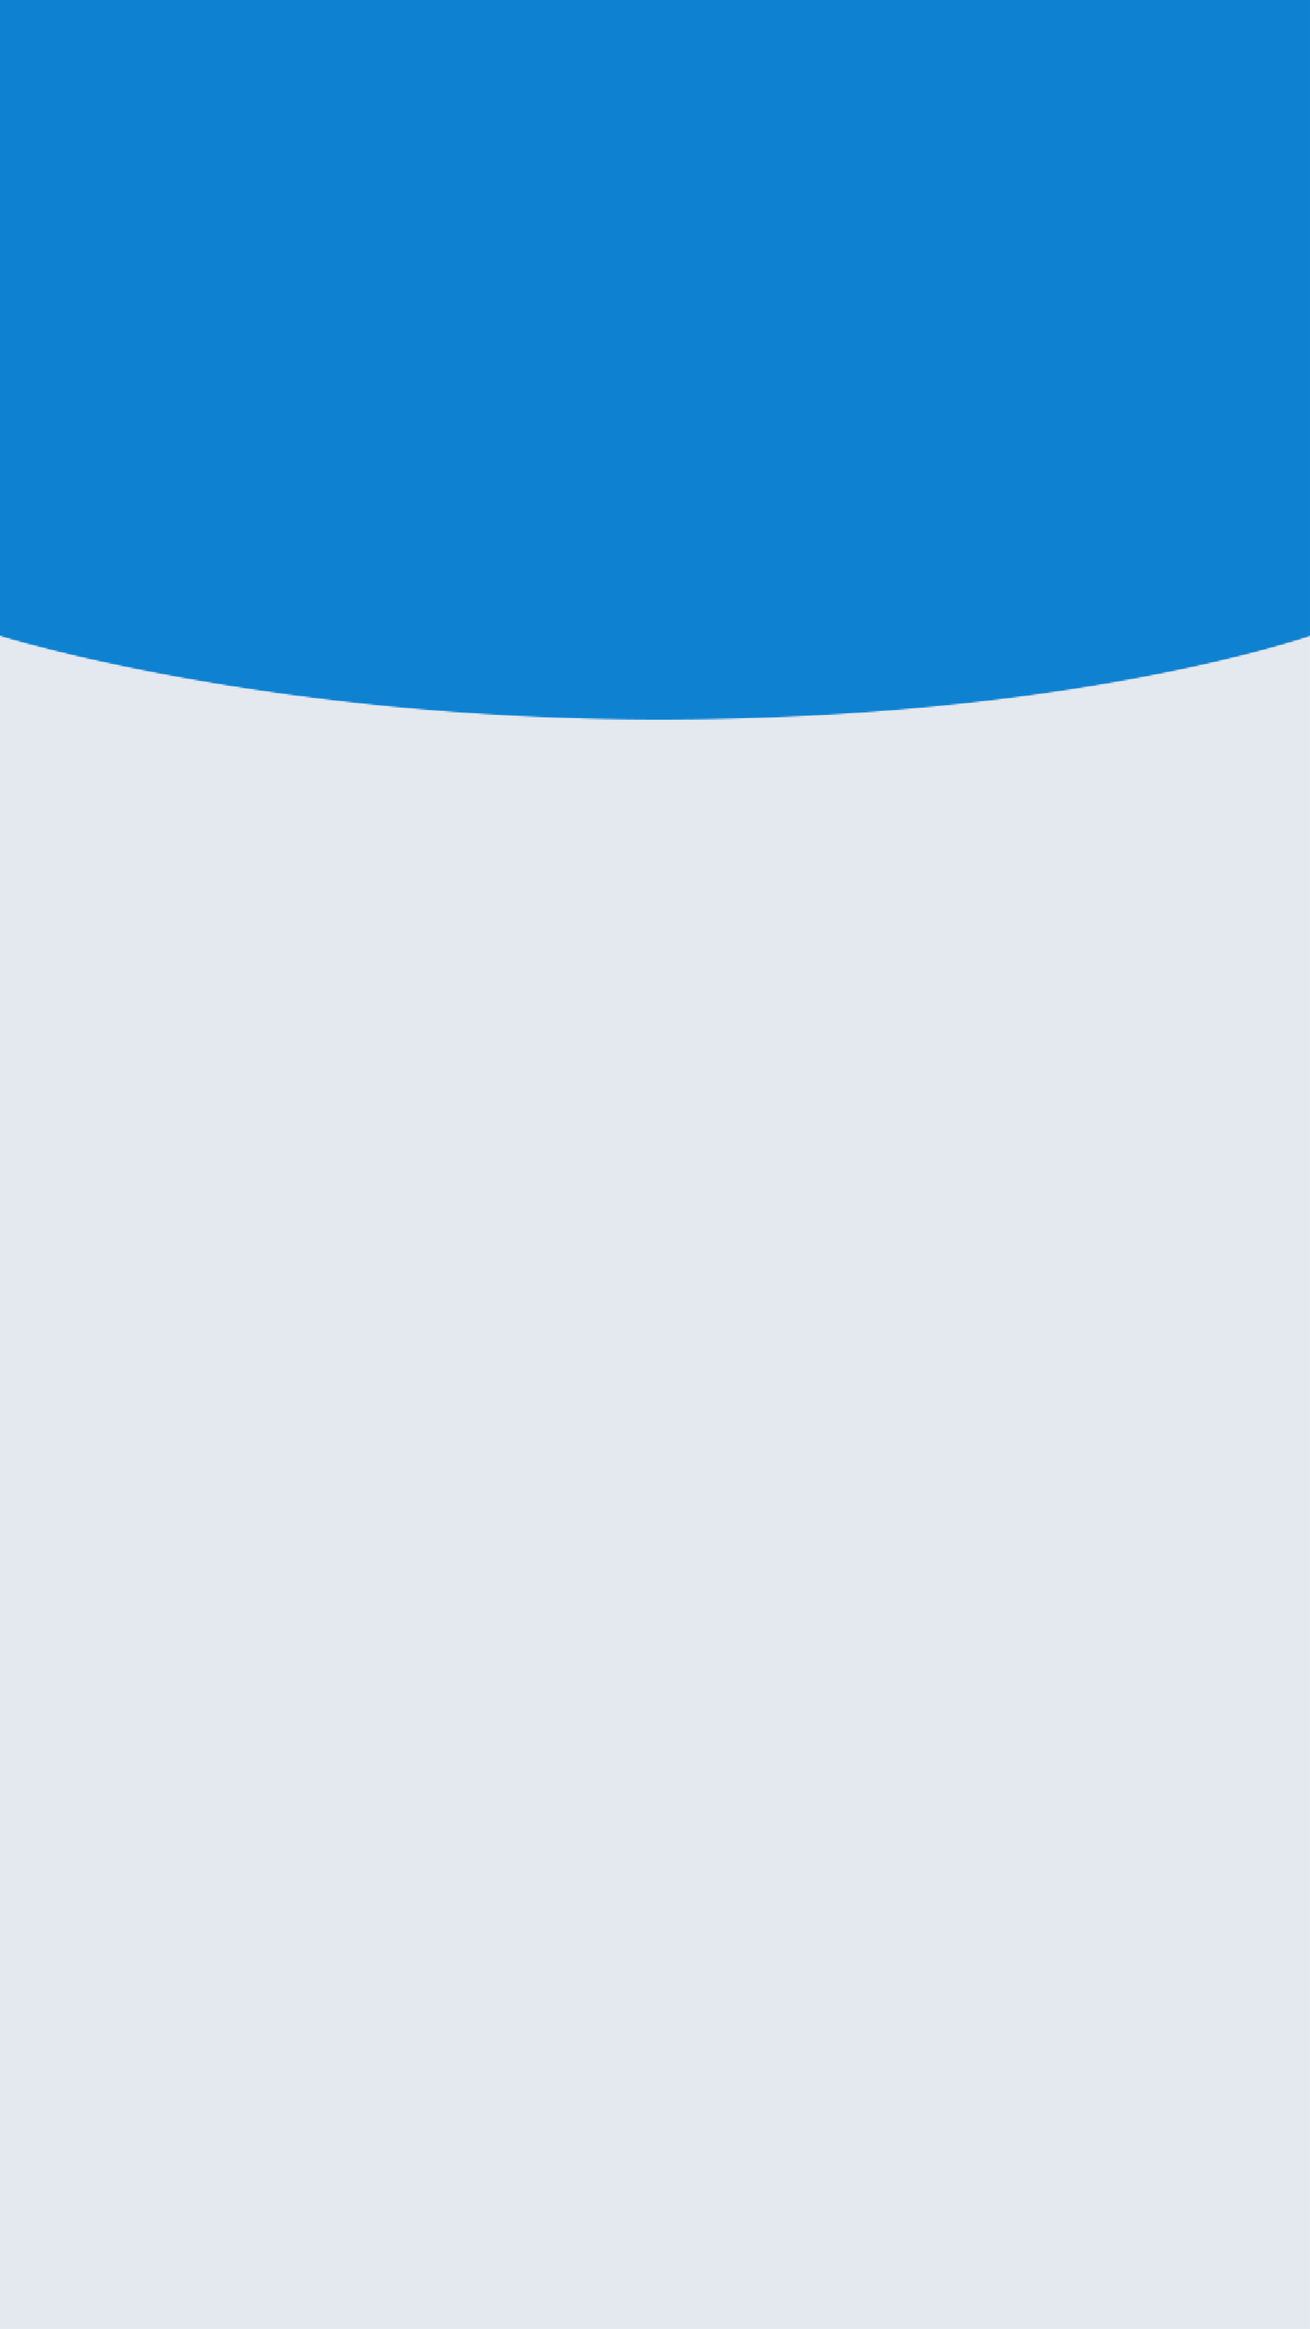
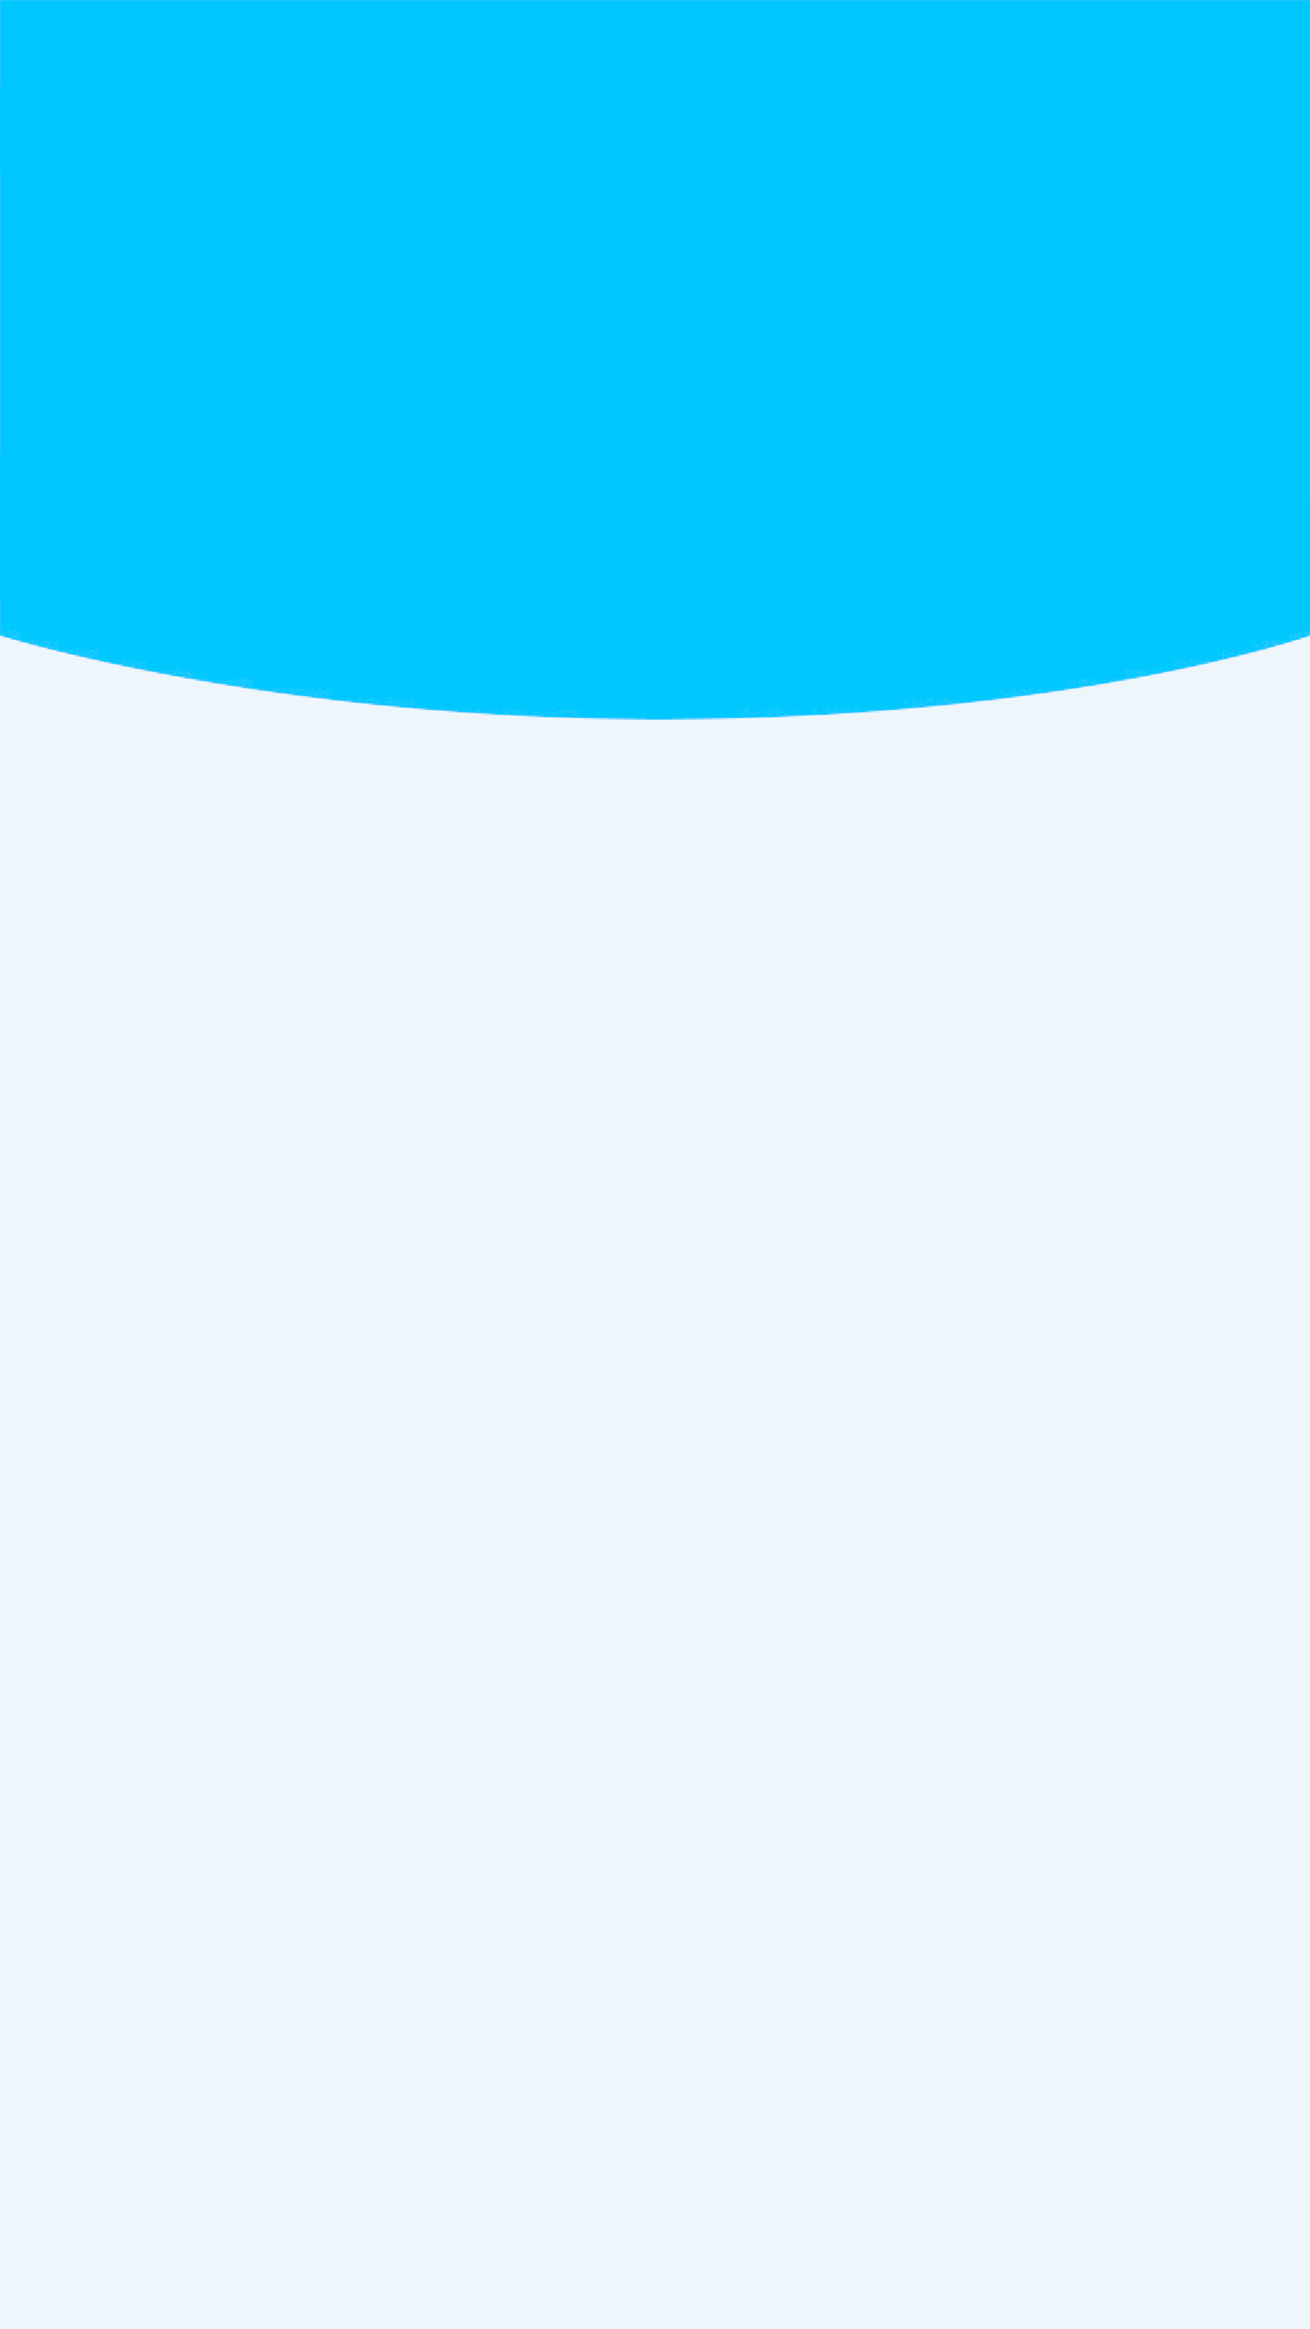
Linked everything together.

Changed region(s): [[0.0, 0.0, 1.0, 0.3125]]

diff --git a/lib/homepage.dart b/lib/homepage.dart
@@ -5,13 +5,21 @@ import 'package:fluttertoast/fluttertoast.dart';
 import 'package:note_scout/forgotpassword.dart';
 import 'package:note_scout/sidemenu.dart';
 import 'package:note_scout/searchnotes.dart';
-
-import 'signuppage.dart';
+import 'package:note_scout/view.dart';
+import 'package:note_scout/edit.dart';
+import 'package:note_scout/upload.dart';
+import 'package:note_scout/mynotes.dart';
+import 'package:note_scout/signuppage.dart';
 
 class MyApp extends StatelessWidget {
   @override
   Widget build(BuildContext context) {
     return new MaterialApp(
+      title: "Note Scout",
+      theme: ThemeData(
+          brightness: Brightness.light,
+          primaryColor: Color.fromARGB(0xFF, 0x00, 0xc8, 0xff),
+      ),
       debugShowCheckedModeBanner: false,
       routes: <String, WidgetBuilder>{
         '/signup': (BuildContext context) => new SignupPage()
@@ -115,34 +123,40 @@ class _MyHomePageState extends State<MyHomePage> {
                       ),
                     ),
                     SizedBox(height: 40.0),
-                    Container(
-                      height: 40.0,
-                      child: Material(
-                        borderRadius: BorderRadius.circular(20.0),
-                        shadowColor: Colors.blueAccent,
-                        color: Colors.blueAccent,
-                        elevation: 7.0,
-                        child: GestureDetector(
+                    GestureDetector(
                           onTap: () {
                             Navigator.pushReplacement(
                                 context,
                                 MaterialPageRoute<void>(
                                     builder: (context) => GridLayout()));
                           },
-                          child: Center(
-                            child: Text(
-                              'LOGIN',
-                              style: TextStyle(
-                                  color: Colors.white,
-                                  fontWeight: FontWeight.bold,
-                                  fontFamily: 'Montserrat'),
+                          child: Container(
+                            height: 40.0,
+                            child: Material(
+                                borderRadius: BorderRadius.circular(20.0),
+                                shadowColor: Colors.blueAccent,
+                                color: Colors.blueAccent,
+                                elevation: 7.0,
+                                child: Center(
+                                    child: Text('LOGIN',
+                                      style: TextStyle(
+                                      color: Colors.white,
+                                      fontWeight: FontWeight.bold,
+                                      fontFamily: 'Montserrat'),
                             ),
                           ),
                         ),
                       ),
                     ),
                     SizedBox(height: 20.0),
-                    Container(
+                    GestureDetector(
+                          onTap: () {
+                            Navigator.pushReplacement(
+                                context,
+                                MaterialPageRoute<void>(
+                                    builder: (context) => GridLayout()));
+                          },
+                          child: Container(
                       height: 40.0,
                       color: Colors.transparent,
                       child: Container(
@@ -153,14 +167,7 @@ class _MyHomePageState extends State<MyHomePage> {
                                 width: 1.0),
                             color: Colors.transparent,
                             borderRadius: BorderRadius.circular(20.0)),
-                        child: GestureDetector(
-                          onTap: () {
-                            Navigator.pushReplacement(
-                                context,
-                                MaterialPageRoute<void>(
-                                    builder: (context) => GridLayout()));
-                          },
-                          child: Row(
+                        child: Row(
                               mainAxisAlignment: MainAxisAlignment.center,
                               children: <Widget>[
                                 SizedBox(width: 10.0),
@@ -224,7 +231,7 @@ class GridLayout extends StatelessWidget {
   Widget build(BuildContext context) {
     // creating empty app with background
     return Scaffold(
-        appBar: AppBar(backgroundColor: Colors.blue,),
+        appBar: AppBar(title: Text("Note Scout"),),
         drawer: Drawer(child: SideMenu()),
         body: Container(
           decoration: BoxDecoration(
@@ -232,7 +239,7 @@ class GridLayout extends StatelessWidget {
                 image: AssetImage("assets/bg.png"), fit: BoxFit.cover),
           ),
           child: Container(
-            margin: const EdgeInsets.only(top: 79.0), //SHIFTING THE GRID UPWARDS!!!!!!
+            margin: const EdgeInsets.only(top: 16.0), //SHIFTING THE GRID UPWARDS!!!!!!
             child: GridView(
               physics: BouncingScrollPhysics(), // only for iOS
               gridDelegate:
@@ -250,11 +257,64 @@ class GridLayout extends StatelessWidget {
                         msg: title + " click",
                         toastLength: Toast.LENGTH_SHORT,
                         gravity: ToastGravity.CENTER,
-                        backgroundColor: Colors.blue,
-                        textColor: Colors.white,
+                        backgroundColor: Color.fromARGB(0xFF, 0x00, 0xc8, 0xff),
+                        textColor: Colors.black,
                         fontSize: 16.0);
-                    Navigator.of(context).push(
-                        MaterialPageRoute(builder: (context) => searchNotes()));
+
+                    // Change page
+                    switch(title) {
+                        case "Search Notes":
+                            Navigator.push(
+                                context,
+                                MaterialPageRoute(builder: (context) {
+                                    return searchNotes();
+                                }),
+                            );
+                            break;
+                        case "Create New Notes":
+                            Navigator.push(
+                                context,
+                                MaterialPageRoute(builder: (context) {
+                                    return ViewNotePage(mode: ViewNoteMode.Owned);
+                                }),
+                            );
+                            Navigator.push(
+                                context,
+                                MaterialPageRoute(builder: (context) {
+                                    return EditNotePage();
+                                }),
+                            );
+                            break;
+                        case "Upload":
+                            Navigator.push(
+                                context,
+                                MaterialPageRoute(builder: (context) {
+                                    return upload();
+                                }),
+                            );
+                            break;
+                        case "My Notes":
+                            Navigator.push(
+                                context,
+                                MaterialPageRoute(builder: (context) {
+                                    return MyNotesPage(mode: MyNotesMode.Owned);
+                                }),
+                            );
+                            break;
+                        case "Bookmarks":
+                            Navigator.push(
+                                context,
+                                MaterialPageRoute(builder: (context) {
+                                    return MyNotesPage(mode: MyNotesMode.Browsing);
+                                }),
+                            );
+                            break;
+                        case "Get Help":
+                            print("TODO");
+                            break;
+                        default:
+                            break;
+                    }
                   },
                 );
               }).toList(),
@@ -317,13 +377,7 @@ class GridLayout extends StatelessWidget {
 class myApp extends StatelessWidget {
   @override
   Widget build(BuildContext context) {
-    return MaterialApp(
-      title: 'Flutter Demo',
-      theme: ThemeData(
-        primarySwatch: Colors.blue,
-      ),
-      home: SideMenu(),
-    );
+    return SideMenu();
   }
 }
 

diff --git a/lib/sidemenu.dart b/lib/sidemenu.dart
@@ -1,5 +1,7 @@
 import 'package:flutter/material.dart';
 
+import 'package:note_scout/upload.dart';
+
 final Color backgroundColor = Color(0xFFFFFF);
 
 class SideMenu extends StatefulWidget {
@@ -15,10 +17,10 @@ class sideMenu extends State<SideMenu> {
   Widget build(BuildContext context) {
     return Scaffold(
       backgroundColor: backgroundColor,
-      body: Stack(
+      body: ListView(
         children: <Widget>[
-          menu(context),
           dashboard(context),
+          menu(context),
         ],
       ),
     );
@@ -28,40 +30,51 @@ class sideMenu extends State<SideMenu> {
    * grid view homepage layout
    */
   Widget menu(context) {
-    return Padding(
-      padding: const EdgeInsets.only(left: 36.0),
-      child: Align(
-        alignment: Alignment.centerLeft, //moving the sidemenu
-        child: Column(
-          mainAxisSize: MainAxisSize.min,
-          mainAxisAlignment: MainAxisAlignment.spaceAround,
-          crossAxisAlignment: CrossAxisAlignment.start,
-          children: <Widget>[
-            Text("My Account",
-                style: TextStyle(color: Colors.black, fontSize: 22.0)),
-            SizedBox(height: 10.0),
-            Text("",
-                style: TextStyle(color: Colors.black, fontSize: 22.0)),
-            SizedBox(height: 10.0),
-            Text("Upload",
-                style: TextStyle(color: Colors.black, fontSize: 22.0)),
-            SizedBox(height: 10.0),
-            Text("Get Help",
-                style: TextStyle(color: Colors.black, fontSize: 22.0)),
-            SizedBox(height: 10.0),
-            Text("Upgrade Account",
-                style: TextStyle(color: Colors.black, fontSize: 22.0)),
-            SizedBox(height: 10.0),
-            Text("Trash",
-                style: TextStyle(color: Colors.black, fontSize: 22.0)),
-            SizedBox(height: 10.0),
-            Text("Settings",
-                style: TextStyle(color: Colors.black, fontSize: 22.0)),
-            SizedBox(height: 10.0),
+    return Column(
+        children: <Widget>[
+            ListTile(
+                title: const Text("My Account", style: TextStyle(color: Colors.black, fontSize: 22.0)),
+                onTap: () {
+                    print("TODO");
+                }
+            ),
+            ListTile(
+                title: const Text("Upload", style: TextStyle(color: Colors.black, fontSize: 22.0)),
+                onTap: () {
+                    Navigator.push(
+                        context,
+                        MaterialPageRoute(builder: (context) {
+                            return upload();
+                        }),
+                    );
+                }
+            ),
+            ListTile(
+                title: const Text("Get Help", style: TextStyle(color: Colors.black, fontSize: 22.0)),
+                onTap: () {
+                    print("TODO");
+                }
+            ),
+            ListTile(
+                title: const Text("Upgrade Account", style: TextStyle(color: Colors.black, fontSize: 22.0)),
+                onTap: () {
+                    print("TODO");
+                }
+            ),
+            ListTile(
+                title: const Text("Trash", style: TextStyle(color: Colors.black, fontSize: 22.0)),
+                onTap: () {
+                    print("TODO");
+                }
+            ),
+            ListTile(
+                title: const Text("Settings", style: TextStyle(color: Colors.black, fontSize: 22.0)),
+                onTap: () {
+                    print("TODO");
+                }
+            ),
           ],
-        ),
-      ),
-    );
+        );
   }
 
   /**
@@ -69,25 +82,14 @@ class sideMenu extends State<SideMenu> {
    */
   Widget dashboard(context){
     return Material(
-      elevation: 8.0,
       color: backgroundColor,
-      child: Container(
-        padding: const EdgeInsets.only(left: 16.0, right: 16.0, top: 48.0),
-        child: Column(
-          children: <Widget>[
-            Row(
-              mainAxisAlignment: MainAxisAlignment.spaceBetween,
-              mainAxisSize: MainAxisSize.max,
-              children: [
-                Icon(Icons.menu, color: Colors.blue),
-                Text("NoteScout", style: TextStyle(fontSize: 24.0, color: Colors.blue)),
-                Icon(Icons.settings, color: Colors.blue),
-
-              ],
-            ),
+      child: DrawerHeader(child: Row(
+          mainAxisAlignment: MainAxisAlignment.spaceBetween,
+          children: [
+              Text("Note Scout", style: TextStyle(fontSize: 36.0, color: Colors.blue)),
+              Icon(Icons.settings, color: Colors.blue),
           ],
-        ),
-      ),
+      )),
     );
   }
 }

diff --git a/lib/forgotpassword.dart b/lib/forgotpassword.dart
@@ -75,28 +75,6 @@ class _forgotPassword extends State<forgotPassword> {
                               ),
                             ),
                           )),
-                      SizedBox(height: 20.0),
-                      Container(
-                        height: 40.0,
-                        child: Material(
-                          borderRadius: BorderRadius.circular(20.0),
-                          shadowColor: Colors.blueAccent,
-                          color: Colors.blueAccent,
-                          elevation: 3.0,
-                          child: GestureDetector(
-                            onTap: () {},
-                            child: Center(
-                              child: Text(
-                                'Sign In with Google',
-                                style: TextStyle(
-                                    color: Colors.white,
-                                    fontWeight: FontWeight.bold,
-                                    fontFamily: 'Montserrat'),
-                              ),
-                            ),
-                          ),
-                        ),
-                      ),
                       SizedBox(height: 59.0),
                       Container(
                         height: 40.0,

diff --git a/lib/main.dart b/lib/main.dart
@@ -1,13 +1,5 @@
 import 'package:flutter/material.dart';
 
-import 'package:note_scout/mynotes.dart';
 import 'package:note_scout/homepage.dart';
 
-void main() => runApp(MaterialApp(
-    title: "Note Scout",
-    theme: ThemeData(
-        brightness: Brightness.light,
-        primaryColor: Color.fromARGB(0xFF, 0x00, 0xc8, 0xff),
-    ),
-    home: MyApp()
-));
+void main() => runApp(MyApp());

diff --git a/lib/searchnotes.dart b/lib/searchnotes.dart
@@ -13,9 +13,7 @@ class _searchNotes extends State<searchNotes> {
   @override
   Widget build(BuildContext context) {
     return new Scaffold(
-        appBar: AppBar(
-          backgroundColor: Colors.blue,
-        ),
+        appBar: AppBar(),
         resizeToAvoidBottomPadding: false,
         body: Column(
           crossAxisAlignment: CrossAxisAlignment.start,
